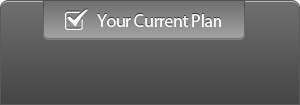
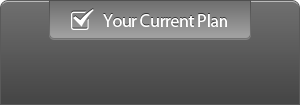
Fixed and tweaked upgrade and downgrade confirm pages in MC admin

Changed region(s): [[0.21, 0.0857, 0.78, 0.2857], [0.12, 0.0, 0.18, 0.4], [0.81, 0.0, 0.84, 0.4]]

diff --git a/localtv/templates/localtv/admin/upgrade.html b/localtv/templates/localtv/admin/upgrade.html
@@ -41,27 +41,41 @@ along with Miro Community.  If not, see <http://www.gnu.org/licenses/>.
     <p>All <strong>new</strong> monthly subscribers get a <strong>free 30 day</strong> trial.</p> 
   </div><!-- // upgrade_title -->
   
-
+{% ifequal site_location.tier_name 'basic' %}
 <div id="basic_plan" class="clear">
-  {% ifequal site_location.tier_name 'basic' %}
     <h1>Your current plan: <strong>basic</strong></h1>
-  {% else %}
-    <h1 id="downgrade_basic">Downgrade to <strong>basic</strong></h1>
-  {% endifequal %}
-  <p>  {% ifequal site_location.tier_name 'basic' %}
-{% if site_location.basic_trial_available %}
-Easily upgrade to receive a free 30 day trial. Only takes seconds.
-{% else %}
-To upgrade, make a choice below.
-{% endif %}
-{% else %}
-You can always downgrade to the basic plan.
-{% endifequal %}
-</p>
-{% ifnotequal site_location.tier_name 'basic' %}
-  <a id="btn_started" href="{% url localtv_admin_change_tier %}?tier_name=basic">Switch to basic</a>
-{% endifnotequal %}
+    <p>{% ifequal site_location.tier_name 'basic' %}
+      {% if site_location.basic_trial_available %}
+        Easily upgrade to receive a free 30 day trial. Only takes seconds.
+      {% else %}
+        To upgrade, make a choice below.
+      {% endif %}
+      {% else %}
+        You can always downgrade to the basic plan.
+      {% endifequal %}
+    </p>
+
 </div><!-- // basic_plan -->
+
+{% else %}
+
+<div id="switchbasic" class="clear">
+  <h1>Basic <strong>Free</strong></h1>
+    <p>{% ifequal site_location.tier_name 'basic' %}
+      {% if site_location.basic_trial_available %}
+        Easily upgrade to receive a free 30 day trial. Only takes seconds.
+      {% else %}
+        To upgrade, make a choice below.
+      {% endif %}
+      {% else %}
+        500 videos, your own logo and background.
+      {% endifequal %}
+    </p>
+    {% ifnotequal site_location.tier_name 'basic' %}
+      <a id="btn_switchbasic" href="{% url localtv_admin_change_tier %}?tier_name=basic">Switch to basic</a>
+    {% endifnotequal %}
+</div><!-- // basic_plan -->
+{% endifequal %}
 
 <div id="starter_pack" class="{% ifequal site_location.tier_name 'plus' %}selected {% endifequal %}{% if plus_would_be_downgrade %}switch_to {% endif %} plan">
   <div class="hdr">
@@ -76,7 +90,8 @@ You can always downgrade to the basic plan.
     <li><strong>5</strong> Administrator Accounts</li>
   </ul>
   <div class="ft">
-    <a href="{% url localtv_admin_change_tier %}?tier_name=plus" class="start_trial">{{ switch_messages.plus }}</a>
+    <a href="{% url localtv_admin_change_tier %}?tier_name=plus" class="start_trial"><em>{{ switch_messages.plus }}</em></a>
+    <p>Plus</p>
   </div><!-- // ft -->
 </div><!-- // starter_pack -->
 
@@ -94,7 +109,8 @@ You can always downgrade to the basic plan.
     <li>You can run advertising</li>
   </ul>
   <div class="ft">
-    <a href="{% url localtv_admin_change_tier %}?tier_name=premium" class="start_trial">{{ switch_messages.premium }}</a>
+    <a href="{% url localtv_admin_change_tier %}?tier_name=premium" class="start_trial"><em>{{ switch_messages.premium }}</em></a>
+    <p>Premium</p>
   </div><!-- // ft -->
 </div><!-- // value_added -->
 
@@ -113,7 +129,8 @@ You can always downgrade to the basic plan.
     <li>Fully Custom Templating</li>
   </ul>
   <div class="ft">
-    <a href="{% url localtv_admin_change_tier %}?tier_name=max" class="start_trial">Upgrade Your Account</a>
+    <a href="{% url localtv_admin_change_tier %}?tier_name=max" class="start_trial"><em>Upgrade Your Account</em></a>
+    <p>Max</p>
   </div><!-- // ft -->
 </div><!-- // delcisious_plan -->
 </div><!-- // clear -->

diff --git a/static/css/admin/upgrade.css b/static/css/admin/upgrade.css
@@ -22,6 +22,10 @@ body#tier #upgrade_title p strong {
   font-weight: bold;
 }
 
+/*
+Basic Plan
+*/
+
 body#tier #basic_plan {
   width: 941px;
   height: 49px;
@@ -53,21 +57,56 @@ body#tier #basic_plan p {
   text-shadow: 0 1px 0 #ffffcf;
 }
 
-body#tier #basic_plan a#btn_started {
+/*
+Switch to basic
+*/
+
+body#tier #switchbasic {
+  width: 941px;
+  height: 49px;
+  background: transparent url(/images/admin/switch_basic_bg.png) 0 0 no-repeat;
+  display: block;
+  margin: 0 0 0 0;
+}
+
+body#tier #switchbasic h1 {
+  font-family: Helvetica, Arial, sans-serif;
+  color: #FFF;
+  margin: 13px 0 0 25px;
+  font-size: 21px;
+  letter-spacing: -0.5px;
+  text-shadow: 0 -1px 0 #000;
+  float: left;
+}
+
+body#tier #switchbasic h1 strong {
+  font-weight: bold;
+}
+
+body#tier #switchbasic p {
+  color: #555;
+  float: left;
+  margin: 18px 0 0 45px;
+  font-size: 15px;
+  letter-spacing: -0.5px;
+  text-shadow: 0 1px 0 #FFF;
+}
+
+body#tier #switchbasic a#btn_switchbasic {
   float: right;
   display: block;
   width: 155px;
   height: 35px;
-  background: transparent url(/images/admin/btn_upgrade_today.png) 0 0 no-repeat;
+  background: transparent url(/images/admin/btn_switch_basic.png) 0 0 no-repeat;
   text-indent: -9999px;
   margin: 8px 8px 0 0;
 }
 
-body#tier #basic_plan a:hover#btn_started {
+body#tier #switchbasic a:hover#btn_switchbasic {
   background-position: 0 -35px;
 }
 
-body#tier #basic_plan a:active#btn_started {
+body#tier #switchbasic a:active#btn_switchbasic {
   background-position: 0 -70px;
 }
 
@@ -112,7 +151,11 @@ body#tier .selected .hdr h2 {
   color: #FFF;
   text-shadow: 0 1px 0 #333;
   letter-spacing: -1px;
-  padding: 53px 0 0 0;
+  padding: 60px 0 0 0;
+  text-align: center;
+  float: none;
+  display: block;
+  
 }
 
 body#tier .selected .ft {
@@ -123,17 +166,43 @@ body#tier .selected .ft a {
   display: none;
 }
 
-body#tier .ft a {
+body#tier .ft p {
+  display: none;
+}
+
+body#tier .selected .ft p {
   color: #FFF;
   font-weight: bold;
-  font-size: 20px;
+  font-size: 30px;
   padding: 0 0 5px 0;
   text-decoration: none;
   display: block;
-  float: left;
+  text-align: center;
   position: relative;
-  top: 20px;
-  left: 37px;
+  top: 18px;
+  left: -5px;
+  text-shadow: 0 -1px 0 #000;
+}
+
+body#tier .ft a {
+  color: rgba(255,255,255, 0.3);
+  font-weight: bold;
+  font-size: 20px;
+  padding: 0;
+  text-decoration: underline;
+  display: block;
+  text-align: center;
+  float: none;
+  position: relative;
+  top: 23px;
+  left: 0;
+  border: 0;
+  -moz-box-shadow: inset 0 0 0 #377454;
+  -webkit-box-shadow: inset 0 0 0 #377454;
+}
+
+body#tier .ft a em {
+  color: #FFF;
 }
 
 #signup_form #error_container {
@@ -191,4 +260,31 @@ body#tier form h1#account {
 
 #signup_form .msg {
   width: 900px;
+}
+
+body.downgrade_confirm h1 {
+  background: #910000;
+  -webkit-border-radius: 5px;
+  -moz-border-radius: 5px;
+  padding: 10px;
+  color: #FFF !important;
+  float: left;
+  font-size: 14px !important;
+}
+
+body.downgrade_confirm h2 {
+  padding: 9px 0 0 10px;
+  color: #910000 !important;
+}
+
+body.downgrade_confirm h3 {
+  font-size: 20px;
+  font-weight: bold;
+}
+
+body.downgrade_confirm p {
+  font-size: 16px;
+  font-family: Helvetica, Arial, sans-serif;
+  line-height: 24px;
+  color: #333;
 }

diff --git a/static/css/admin/signup.css b/static/css/admin/signup.css
@@ -66,12 +66,22 @@
   font-family: Helvetica, Arial, sans-serif;
   margin: 0;
   text-align: center;
+  font-size: 25px !important;
+  float: none;
+  display: block;
+  padding: 25px 0 0 0 !important;
 }
 
 .plan h2 {
   font-family: Helvetica, Arial, sans-serif;
   margin: 0;
   text-align: center;
+  font-size: 30px !important;
+  float: none;
+  display: block;
+  margin: 0;
+  position: relative;
+  top: -10px;
 }
 
 .plan a.start_trial {
@@ -139,15 +149,12 @@
 
 #starter_pack .hdr h1 {
   font-family: Helvetica, Arial, sans-serif;
-  padding: 25px 0 8px 0;
   color: #bad8e3;
-  font-size: 20px;
   text-shadow: 0 1px 0 #223841;
 }
 
 #starter_pack .hdr h2 {
   font-weight: bold;
-  font-size: 30px;
   color: #dae3e9;
   text-shadow: 0 1px 0 #223841;
   letter-spacing: -1px;
@@ -170,15 +177,13 @@
 
 #value_added .hdr h1 {
   font-family: Helvetica, Arial, sans-serif;
-  padding: 25px 0 8px 0;
+  
   color: #e1a4c4;
-  font-size: 20px;
   text-shadow: 0 1px 0 #683652;
 }
 
 #value_added .hdr h2 {
   font-weight: bold;
-  font-size: 30px;
   color: #e9dae2;
   text-shadow: 0 1px 0 #683652;
   letter-spacing: -1px;
@@ -201,15 +206,12 @@
 
 #delicious_plan .hdr h1 {
   font-family: Helvetica, Arial, sans-serif;
-  padding: 25px 0 8px 0;
   color: #98d8bb;
-  font-size: 20px;
   text-shadow: 0 1px 0 #376853;
 }
 
 #delicious_plan .hdr h2 {
   font-weight: bold;
-  font-size: 30px;
   color: #dae8e1;
   text-shadow: 0 1px 0 #203f30;
   letter-spacing: -1px;

diff --git a/localtv/templates/localtv/admin/downgrade_confirm.html b/localtv/templates/localtv/admin/downgrade_confirm.html
@@ -18,6 +18,11 @@ You should have received a copy of the GNU Affero General Public License
 along with Miro Community.  If not, see <http://www.gnu.org/licenses/>.
 {% endcomment %}
 
+{% block extrahead %}
+<link rel="stylesheet" type="text/css" href="/css/admin/signup.css" />
+<link rel="stylesheet" type="text/css" href="/css/admin/upgrade.css" />
+{% endblock extrahead %}
+
 {% block body_class %}downgrade_confirm{% endblock body_class %}
 
 {% load pagetabs i18n %}
